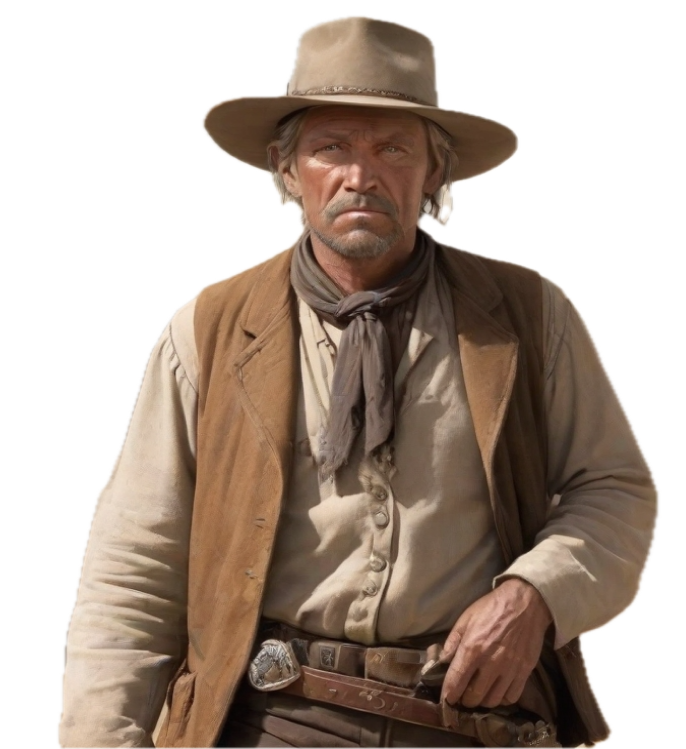
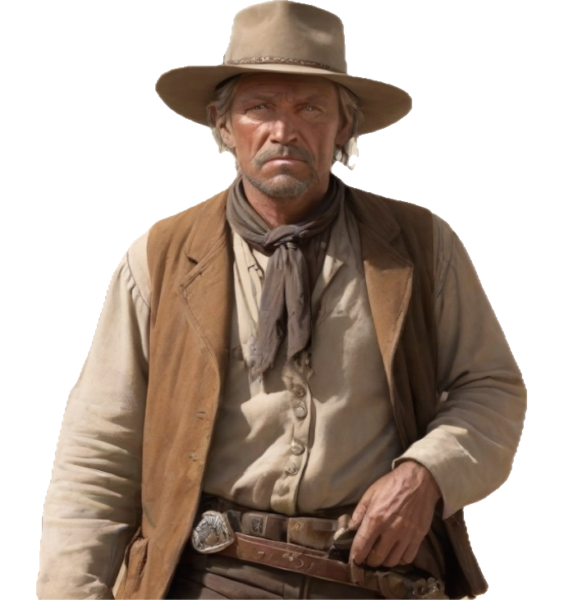
products conf

diff --git a/4_3_watch_product_copy.html b/4_3_watch_product_copy.html
@@ -3,7 +3,7 @@
   <head>
     <meta charset="UTF-8" />
     <meta name="viewport" content="width=device-width, initial-scale=1.0" />
-    <title>Billy The Kid Watch</title>
+    <title>Napoleon Watch</title>
     <link
       href="https://cdn.jsdelivr.net/npm/bootstrap@5.3.2/dist/css/bootstrap.min.css"
       rel="stylesheet"
@@ -65,8 +65,8 @@
             class="col-12 col-md-6 d-md-none d-flex justify-content-center align-items-center"
           >
             <h2>
-              Billy The Kid <br />
-              900$
+              Napoleon <br />
+              1789$
             </h2>
           </div>
           <!-- Immagine -->
@@ -76,7 +76,7 @@
             <div class="img-magnifier-container">
               <img
                 id="myimage"
-                src="./img/watches/billythekid.png"
+                src="./img/watches/napoleon.png"
                 alt="Shogun Watch"
                 class="img-fluid full-img"
               />
@@ -89,16 +89,14 @@
             <div>
               <div class="d-none d-md-block">
                 <h2>
-                  Billy The Kid <br />
-                  900$
+                  Napoleon <br />
+                  1789$
                 </h2>
               </div>
               <p>
-                Immerse yourself in the frontier era with this exceptional
-                wristwatch, embodying the essence of the Wild West. Infusing
-                modern sophistication with the allure of Billy the Kid's
-                legendary exploits, it beckons you on a timeless journey through
-                the heart of the Old West.
+                Made with fine materials and an exclusive design, this watch is
+                not just an accessory, but a portal to an era of conquests,
+                adventures and timeless style.
               </p>
               <a href="#" class="btn custom-button ml-auto"
                 >Buy
@@ -127,21 +125,20 @@
           <div
             class="col-12 col-md-6 d-md-none d-flex justify-content-center align-items-center"
           >
-            <h2>Embracing the Wild West Spirit</h2>
+            <h2>Relive the Age of Napoleon</h2>
           </div>
 
           <!-- Titolo per desktop e Testo -->
           <div class="col-12 col-md-6 d-flex align-items-center">
             <div>
               <div class="d-none d-md-block">
-                <h2>Embracing the Wild West Spirit</h2>
+                <h2>Relive the Age of Napoleon</h2>
               </div>
               <p>
-                Revel in the spirit of the Old West and immerse yourself in the
-                frontier era with this exceptional wristwatch. Merging modern
-                elegance with the rugged allure of Billy the Kid's legendary
-                exploits, it invites you on a thrilling journey through the
-                vibrant heart of the Wild West.
+                Unleash the power of the ancient and travel to the time of
+                Napoleon with this extraordinary wristwatch. It combines modern
+                elegance with the magic of the past, offering you a timeless
+                journey into the heart of the Napoleonic era.
               </p>
               <div class="row">
                 <div class="col">
@@ -149,7 +146,7 @@
                     <div class="col-4 flex image-col">
                       <div class="circle">
                         <img
-                          src="./img/materials/pag_prodotti/billy the kid/EllipseBilly1.png"
+                          src="./img/materials/pag_prodotti/napoleon/ellipseNapoleon1.png"
                           alt="Immagine 1"
                         />
                         <h2>Insert Text</h2>
@@ -158,7 +155,7 @@
                     <div class="col-4 flex image-col">
                       <div class="circle">
                         <img
-                          src="./img/materials/pag_prodotti/billy the kid/EllipseBilly2.png"
+                          src="./img/materials/pag_prodotti/napoleon/ellipseNapoleon2.png"
                           alt="Immagine 2"
                         />
                         <h2>Insert Text</h2>
@@ -167,7 +164,7 @@
                     <div class="col-4 flex image-col">
                       <div class="circle">
                         <img
-                          src="./img/materials/pag_prodotti/billy the kid/EllipseBilly3png.png"
+                          src="./img/materials/pag_prodotti/napoleon/ellipseNapoleon3.png"
                           alt="Immagine 3"
                         />
                         <h2>Insert Text</h2>
@@ -183,7 +180,7 @@
             class="col-md-6 d-flex justify-content-center align-items-center"
           >
             <img
-              src="./img/materials/pag_prodotti/billy the kid/billy.png"
+              src="./img/materials/pag_prodotti/napoleon/napoleon.png"
               alt="Shogun"
               class="img-product"
             />

diff --git a/css/product.css b/css/product.css
@@ -1,6 +1,6 @@
 section {
   position: relative;
-  margin: 80px 0 0;
+  margin: 120px 0 0;
   width: 100%;
   padding: 0;
   overflow: hidden;
